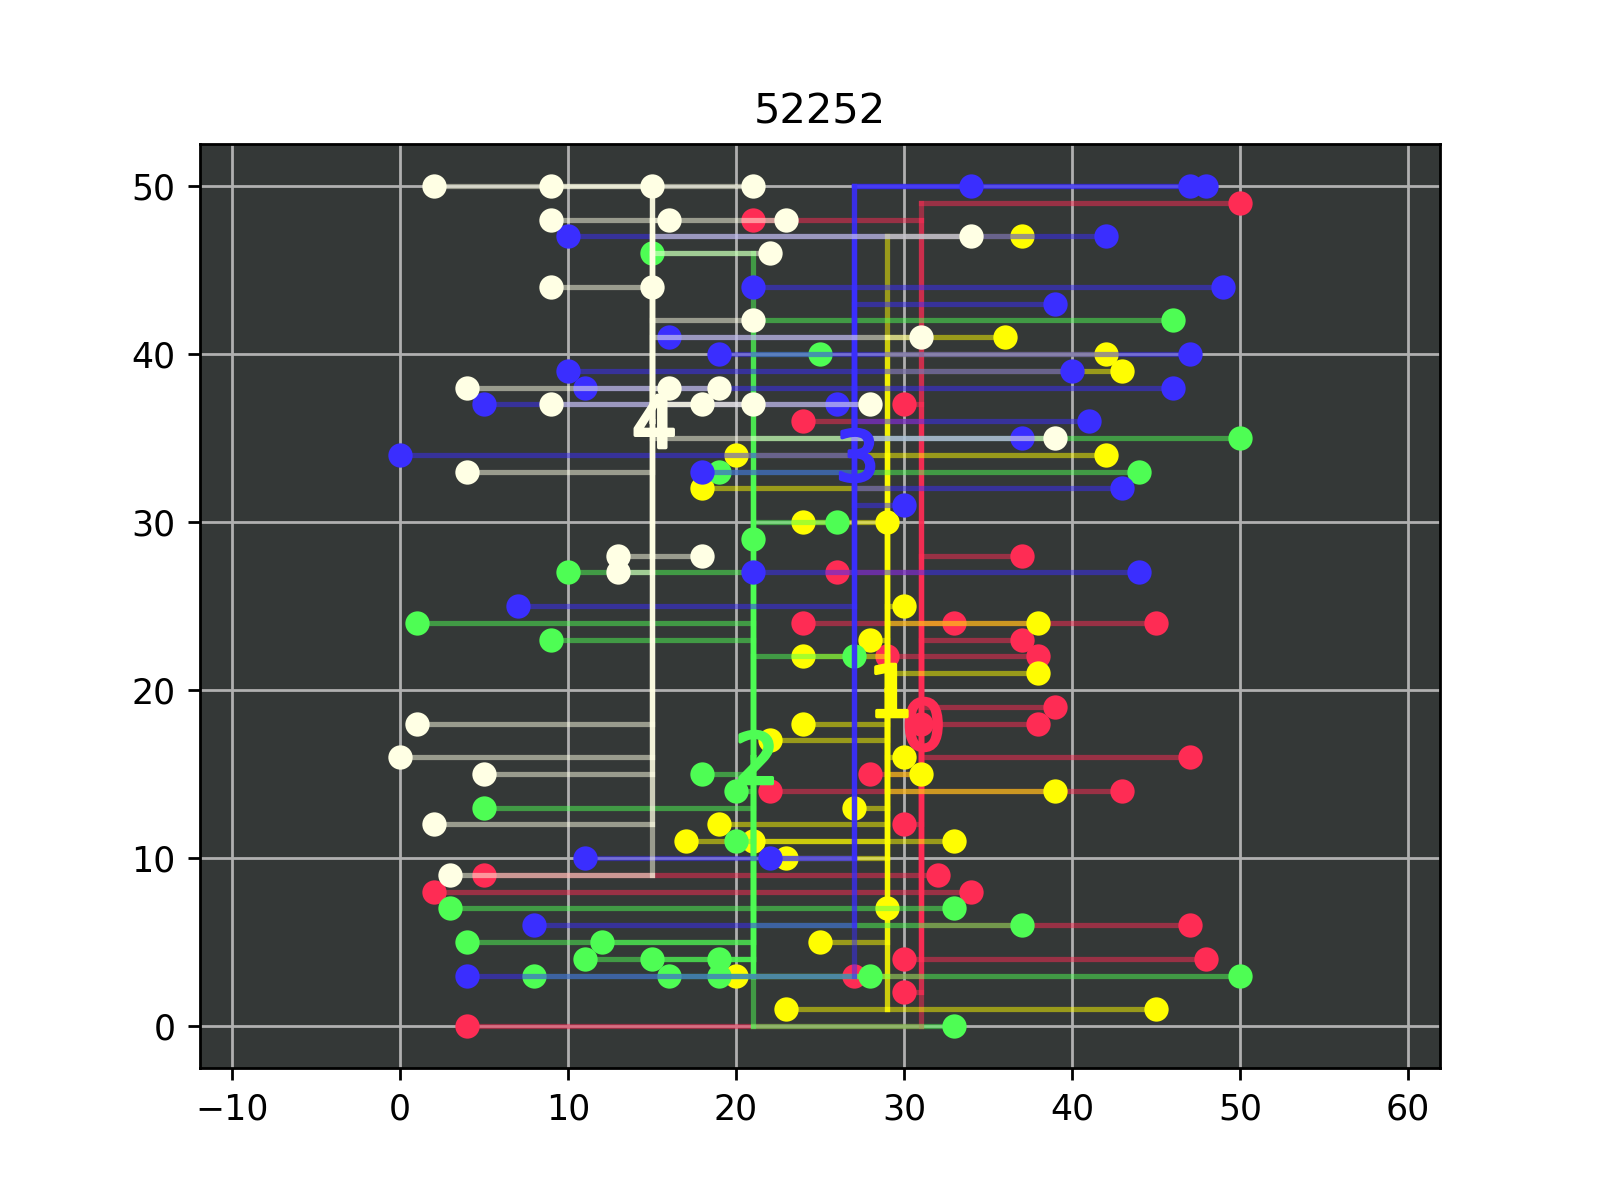
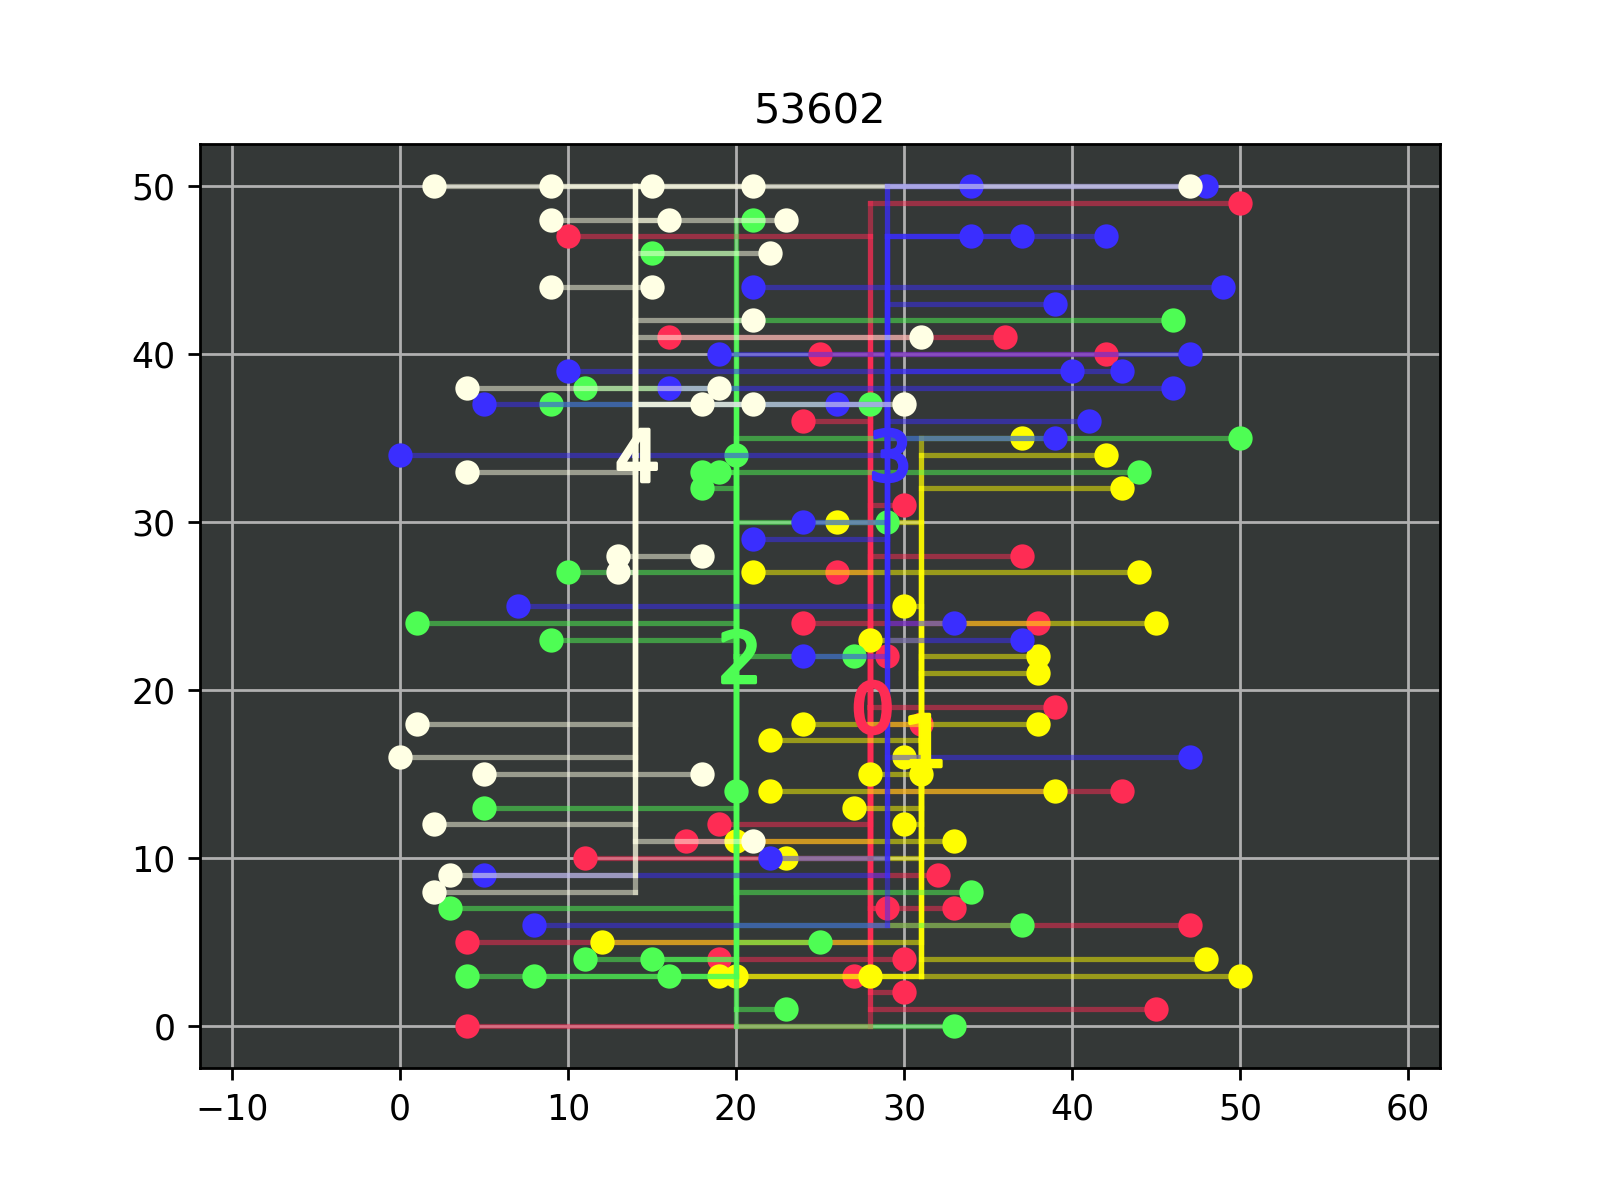
Implemented kmeans

Changed region(s): [[0.25, 0.1233, 0.7812, 0.8633], [0.5, 0.0617, 0.5312, 0.1233]]

diff --git a/functions/algorithms/kmeans.py b/functions/algorithms/kmeans.py
@@ -1,6 +1,7 @@
 from copy import copy, deepcopy
 from functions.visualize import visualize
-def kmeans(district, numIt = 10, count = 0, contestants = []):
+from random import shuffle
+def kmeans(district, numIt = 10, count = 0, contestants = [], miss = 0):
 
 
     print("      Price before", district.costs)
@@ -12,6 +13,7 @@ def kmeans(district, numIt = 10, count = 0, contestants = []):
             district.disconnect()
             district.connectGreedy(True)
 
+    # Set battery to mean location
     for b in district.batteries:
         meanLocation = [0,0]
         for h in b.connectedHouses:
@@ -28,14 +30,28 @@ def kmeans(district, numIt = 10, count = 0, contestants = []):
     # Only the best
     contestants.append(deepcopy(district))
     contestants.sort(key = lambda x: x.costs)
-
+    visualize(district, True, count)
     if district.costs <= contestants[0].costs:
-        visualize(district, True, count)
-        
+        a = 0
+        #visualize(district, True, count)
+    else:
+        miss += 1
+        if miss > numIt / 20:
+            shuffle(contestants)
+            if miss > numIt / 10:
+                miss = 0
+                district.disconnect()
+                district.connectRandom()
+
+
     district = copy(contestants[0])
 
     if count < numIt:
         count += 1
-        return kmeans(district, count = count, contestants = contestants, numIt = numIt)
+        return kmeans(district,
+                      count = count,
+                      contestants = contestants,
+                      numIt = numIt,
+                      miss = miss)
     else:
         return district

diff --git a/classes/house.py b/classes/house.py
@@ -55,6 +55,10 @@ class House:
                 self.distance = distance
                 # Connect to battery
                 self.connection = battery
+
+        # Sort back to fix plotting bug
+        batteries.sort(key = lambda x: x.id)
+
         if self.connection != possible_connection[0]:
             district.nthChoiceHouses.append(self)
 

diff --git a/functions/visualize.py b/functions/visualize.py
@@ -64,7 +64,7 @@ def visualize(district, save = False, numIt = False):
 
     # Dynamically name plots from a loop
     if numIt:
-        saveName = "plotDistrict" + str(numIt) + ".png"
+        saveName = "plots/plotDistrict" + str(numIt) + ".png"
     else:
         saveName = "plotDistrict.png"
     costs = district.costs

diff --git a/classes/district.py b/classes/district.py
@@ -27,6 +27,7 @@ class District:
     def connectRandom(self):
         for house in self.houses:
             house.connectRandomBattery(self.batteries, self)
+        self.calculateCosts()
 
     def saveVerbose(self,name):
         with open("configurations/" + name + ".txt", "w", newline="") as file:
